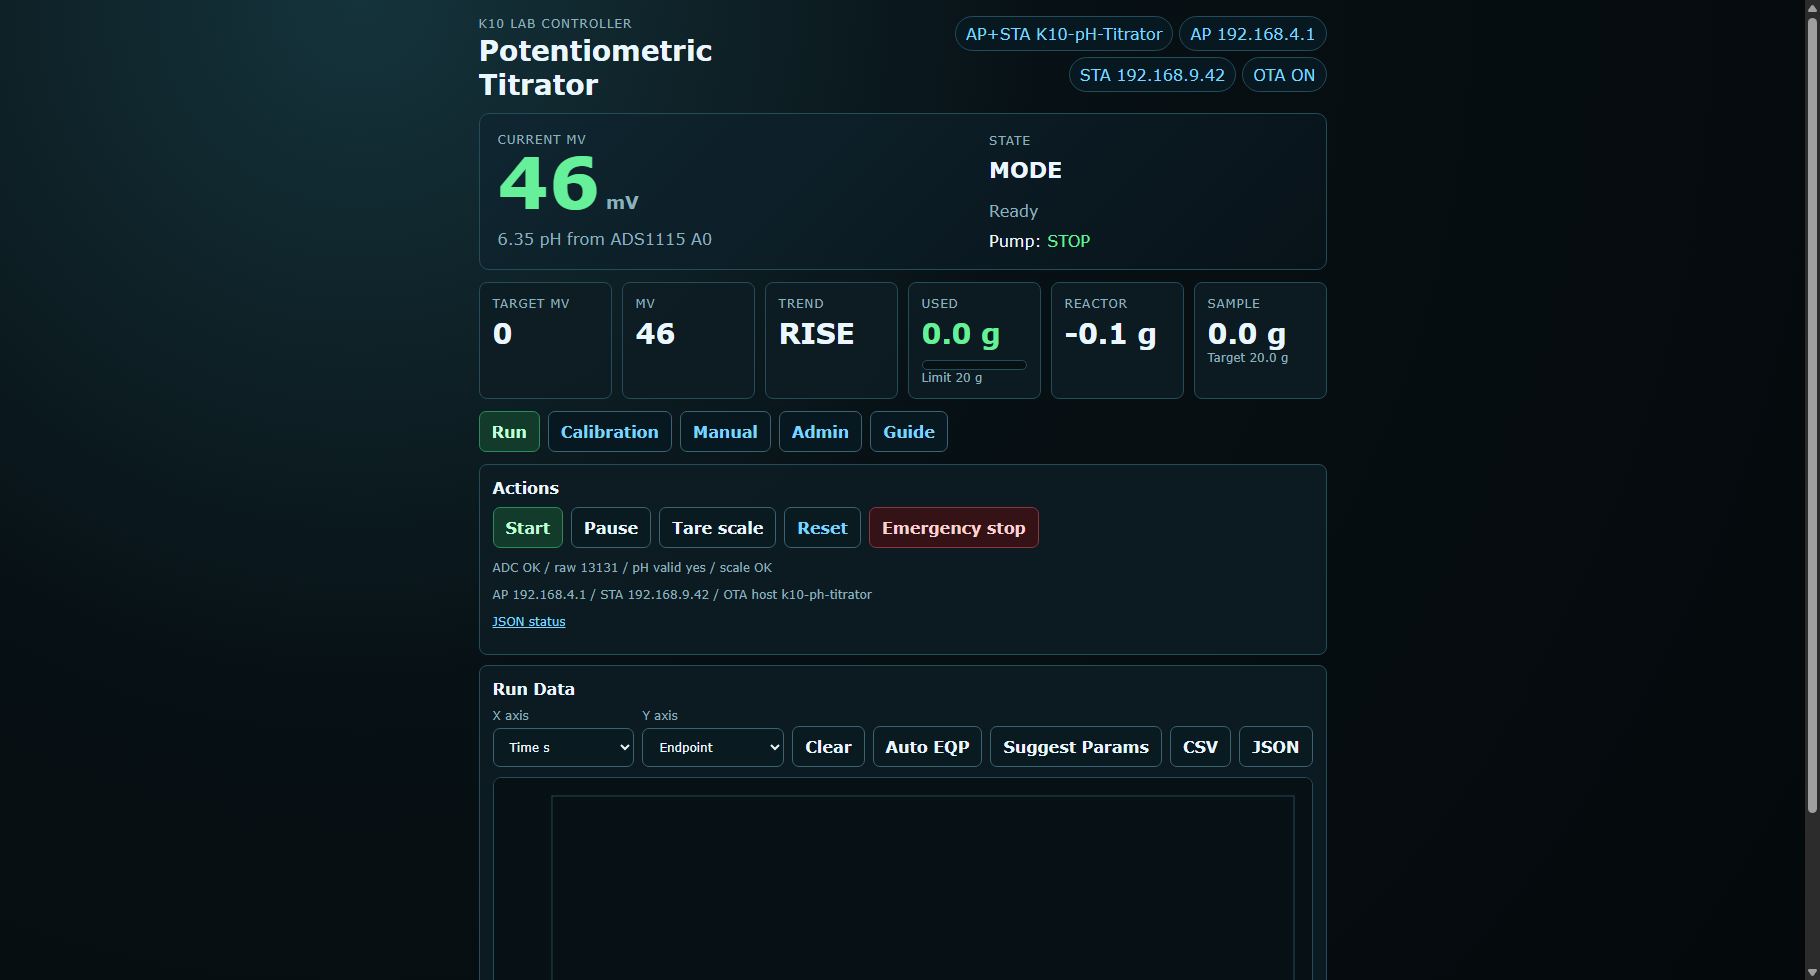
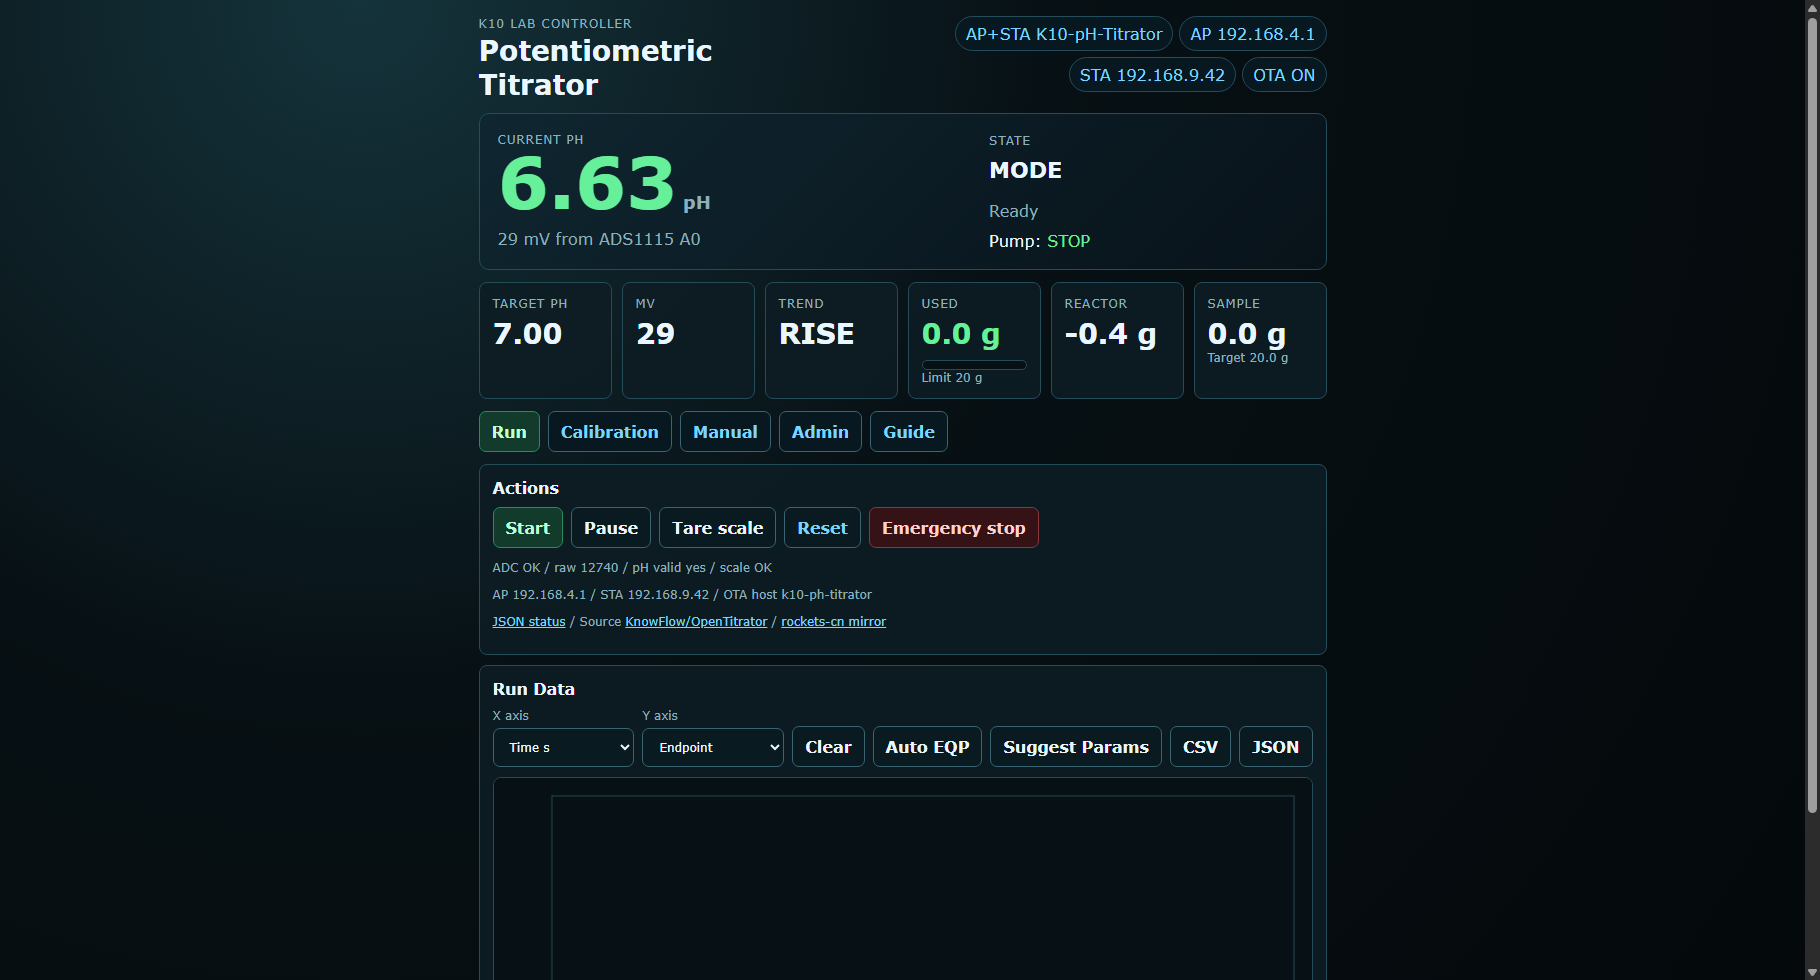
docs: update hardware and dosing references

diff --git a/docs/MANUAL.md b/docs/MANUAL.md
@@ -27,7 +27,7 @@
 ## 1. Safety Warnings
 
 - **Chemical safety**: Always wear goggles and gloves when handling acids, bases, or unknown samples.
-- **Electrical safety**: The K10 logic runs at 3.3 V. Pump servos require an external 5–6 V supply. **Never** power the pumps directly from the K10 board.
+- **Electrical safety**: The K10 logic runs at 3.3 V. The peristaltic pumps require an external 12 V supply. **Never** power the pumps directly from the K10 board.
 - **Common ground**: The external pump power supply **must share a ground** with the K10, otherwise the PWM signal will float and pumps may behave erratically.
 - **Emergency stop**: Press and hold **A+B** for ~1.2 seconds at any time to trigger an emergency stop. Both pumps will halt immediately.
 
@@ -40,7 +40,7 @@
 - pH probe (BNC, connect to ADS1115 A0 via adapter)
 - DFRobot KIT0176 I2C scale module + load cell + reactor vessel holder
 - 2× peristaltic pumps with servo plugs (titrant & sample)
-- External 5–6 V power supply for pumps
+- External 12 V power supply for pumps
 - Jumper wires (I2C, power, PWM)
 
 ---
@@ -63,7 +63,7 @@ Plug the pH probe BNC into the ADS1115 A0 channel adapter. The ADS1115 address i
 ### 3.3 Pumps
 - **Titrant pump** signal → `P0`
 - **Sample pump** signal → `P1`
-- Pump power (+5–6 V) comes from the **external supply**, not the K10.
+- Pump power (+12 V) comes from the **external supply**, not the K10.
 
 ### 3.4 Scale
 Place the reactor vessel on the scale platform. The scale module address is `0x64`. Make sure the load cell is pre-loaded slightly so it reads a stable positive value when empty.
@@ -216,7 +216,7 @@ Once pH is stable, the state changes to **Running** and the titration loop begin
 The controller repeatedly cycles through:
 
 1. **Running** — reads pH, decides pulse size using `decideAdaptiveDose`.
-2. **Dosing** — runs the titrant pump for the pulse duration (25–300 ms).
+2. **Dosing** — runs the titrant pump for the pulse duration (25–450 ms).
 3. **Settling** — waits (6–15 s) for mixing and electrode response.
 
 **You can**:
@@ -347,7 +347,7 @@ The controller advertises via mDNS as `k10-ph-titrator`. In the Arduino IDE:
 | Screen shows `ADC NO` | ADS1115 not detected | Check I2C wiring, verify address `0x49` |
 | Screen shows `SCALE NO` | Scale module not detected | Check I2C wiring, verify address `0x64` |
 | `SENSOR_FAULT` on screen | pH probe stuck at 0 or 1023 | Check probe connection, re-calibrate probe |
-| Pump does not run | No external power | Verify 5–6 V supply, common ground |
+| Pump does not run | No external power | Verify 12 V supply, common ground |
 | Pump runs continuously | PWM signal lost | Check servo wire on P0/P1 |
 | Web page won't load | Wrong IP | Use the IP shown on K10 screen |
 | OTA fails | Partition too small | Ensure `partitions.csv` is in the sketch folder |
@@ -378,13 +378,15 @@ if invalid pH → Error
 if mass limit reached → Error
 if already at target (±0.05) → Done
 if overshooting (dpH/dt steep and crossed target) → Done
-if steep slope (|dpH/dt| > 0.08) → 25 ms pulse, 15 s settle
-else if error > 1.0 → 300 ms pulse, 6 s settle
-else if error > 0.3 → 100 ms pulse, 10 s settle
-else → 40 ms pulse, 15 s settle
+if still drifting toward target inside predictive stop margin → Done
+if steep slope (|dpH/dt| > endpoint steep limit) → 25 ms pulse, 15 s settle
+else if error > controlBand × 3 → 450 ms pulse, 5 s settle
+else if error > controlBand → 150 ms pulse, 8 s settle
+else if error > controlBand × 0.33 → 60 ms pulse, 12 s settle
+else → 25 ms pulse, 15 s settle
 ```
 
-The controller uses the settle interval returned by each dose decision before returning to **Running**. This slower cadence gives the reactor and pH electrode enough time to respond, reducing overshoot near the endpoint.
+The controller uses the settle interval returned by each dose decision before returning to **Running**. The interval is clamped by the configured `Min / Max settle s`. This slower cadence gives the reactor and pH electrode enough time to respond, reducing overshoot near the endpoint.
 
 ### 11.4 Calibration Math
 

diff --git a/docs/MANUAL_CN.md b/docs/MANUAL_CN.md
@@ -27,7 +27,7 @@
 ## 1. 安全警告
 
 - **化学品安全**：操作酸、碱或未知样品时，务必佩戴护目镜和防护手套。
-- **电气安全**：K10 逻辑电路为 3.3 V，蠕动泵舵机需外部 5–6 V 供电。**严禁**直接从 K10 板载电源驱动泵。
+- **电气安全**：K10 逻辑电路为 3.3 V，蠕动泵需外部 12 V 供电。**严禁**直接从 K10 板载电源驱动泵。
 - **共地要求**：外部泵电源**必须与 K10 共地**，否则 PWM 信号会浮动，导致泵运行异常。
 - **紧急停止**：任何时候长按 **A+B** 约 1.2 秒即可触发紧急停止，两路泵立即停止。
 
@@ -40,7 +40,7 @@
 - pH 探头（BNC 接口，通过转接板接 ADS1115 A0）
 - DFRobot KIT0176 I2C 电子秤模块 + 称重传感器 + 反应瓶支架
 - 2× 蠕动泵及舵机插头（滴定泵 & 样品泵）
-- 泵专用外部 5–6 V 电源
+- 泵专用外部 12 V 电源
 - 杜邦线（I2C、电源、PWM）
 
 ---
@@ -63,7 +63,7 @@ K10 SCL    ──► ADS1115 SCL  ──► 秤 SCL
 ### 3.3 蠕动泵
 - **滴定泵**信号线 → `P0`
 - **样品泵**信号线 → `P1`
-- 泵电源（+5–6 V）由**外部电源**提供，不接 K10。
+- 泵电源（+12 V）由**外部电源**提供，不接 K10。
 
 ### 3.4 电子秤
 将反应瓶置于秤盘中央。秤模块地址为 `0x64`。确保称重传感器有轻微预载，空载时能读出稳定的正值。
@@ -216,7 +216,7 @@ pH 稳定后，状态变为 **Running（运行中）**，滴定循环开始。
 控制器按以下循环自动运行：
 
 1. **Running（运行中）** — 读取 pH，通过 `decideAdaptiveDose` 决定脉冲大小。
-2. **Dosing（加药中）** — 滴定泵按脉冲时长运行（25–300 ms）。
+2. **Dosing（加药中）** — 滴定泵按脉冲时长运行（25–450 ms）。
 3. **Settling（静置中）** — 等待混合和电极响应（6–15 s）。
 
 **您可以**：
@@ -347,7 +347,7 @@ python scripts/ota_upload.py ph_titrator/build/ph_titrator.ino.bin --ip 192.168.
 | 屏幕显示 `ADC NO` | ADS1115 未识别 | 检查 I2C 接线，确认地址 `0x49` |
 | 屏幕显示 `SCALE NO` | 秤模块未识别 | 检查 I2C 接线，确认地址 `0x64` |
 | 屏幕显示 `SENSOR_FAULT` | pH 探头卡死在 0 或 1023 | 检查探头接线，重新校准探头 |
-| 泵不转 | 无外部电源 | 确认 5–6 V 供电及共地 |
+| 泵不转 | 无外部电源 | 确认 12 V 供电及共地 |
 | 泵一直转 | PWM 信号丢失 | 检查 P0/P1 舵机线 |
 | 网页打不开 | IP 错误 | 使用 K10 屏幕上显示的 IP |
 | OTA 失败 | 分区太小 | 确保 `partitions.csv` 在 sketch 文件夹中 |
@@ -378,13 +378,15 @@ python scripts/ota_upload.py ph_titrator/build/ph_titrator.ino.bin --ip 192.168.
 若用量达到上限 → 报错
 若已在目标范围内（±0.05）→ 完成
 若过冲（dpH/dt 陡峭且已越过目标）→ 完成
-若斜率陡峭（|dpH/dt| > 0.08）→ 25 ms 脉冲，静置 15 s
-否则若误差 > 1.0 → 300 ms 脉冲，静置 6 s
-否则若误差 > 0.3 → 100 ms 脉冲，静置 10 s
-否则 → 40 ms 脉冲，静置 15 s
+若在预测停泵范围内且仍朝终点漂移 → 完成
+若斜率陡峭（|dpH/dt| > endpoint 陡峭阈值）→ 25 ms 脉冲，静置 15 s
+否则若误差 > controlBand × 3 → 450 ms 脉冲，静置 5 s
+否则若误差 > controlBand → 150 ms 脉冲，静置 8 s
+否则若误差 > controlBand × 0.33 → 60 ms 脉冲，静置 12 s
+否则 → 25 ms 脉冲，静置 15 s
 ```
 
-控制器会使用每次加药决策返回的静置时间，等待结束后才回到 **Running（运行中）**。这个节奏更慢，但能给反应器混合和 pH 电极响应留出时间，减少终点附近过冲。
+控制器会使用每次加药决策返回的静置时间，等待结束后才回到 **Running（运行中）**。静置时间会受到网页设置中的 `Min / Max settle s` 限幅。这个节奏更慢，但能给反应器混合和 pH 电极响应留出时间，减少终点附近过冲。
 
 ### 11.4 校准算法
 

diff --git a/README.md b/README.md
@@ -15,7 +15,7 @@ A standalone pH titration controller for the **UNIHIKER K10** (ESP32-S3). It aut
 | DFRobot KIT0176 scale | I2C | `0x64` | HX711-based, reads reactor weight |
 | Titrant pump | Servo PWM | `P0` | Peristaltic pump (e.g. DFR0523) |
 | Sample pump | Servo PWM | `P1` | Peristaltic pump for sample delivery |
-| Pump power | External 5–6 V | — | Common ground with K10 |
+| Pump power | External 12 V | — | Common ground with K10 |
 
 ### Wiring diagram (conceptual)
 
@@ -27,7 +27,7 @@ K10 (3.3 V I2C)          ADS1115 (0x49)           Scale (0x64)
 │
 ├─ P0  ──► Titrant pump servo signal
 ├─ P1  ──► Sample pump servo signal
-└─ 5V/GND ──► Shared power rail (pumps externally powered)
+└─ 12V/GND ─► Shared power rail (pumps externally powered)
 ```
 
 ---
@@ -51,15 +51,16 @@ Instead of continuous PWM, the controller doses the titrant in **timed pulses** 
 
 The S-shaped curve above illustrates why pulse dosing works: near the steep equivalence point, even a small dose causes a large pH jump. The controller detects this via `dpH/dt` and switches to micro-pulses with longer settle times.
 
-| Zone | pH error | Pulse | Settle | Purpose |
+| Zone | Error threshold | Pulse | Settle | Purpose |
 |------|----------|-------|--------|---------|
 | Steep | `|dpH/dt| > 0.08` | 25 ms | 15 s | Near equivalence point, prevent overshoot |
-| Far | `> 1.0` | 300 ms | 6 s | Conservative approach |
-| Medium | `0.3 – 1.0` | 100 ms | 10 s | Controlled approach |
-| Near | `≤ 0.3` | 40 ms | 15 s | Fine-tuning |
-| Deadband | `≤ 0.05` | — | — | Stop, target reached |
+| Far | `> controlBand × 3` | 450 ms | 5 s | Faster approach while far from endpoint |
+| Medium | `> controlBand` | 150 ms | 8 s | Controlled approach |
+| Near | `> controlBand × 0.33` | 60 ms | 12 s | Fine-tuning |
+| Micro | `≤ controlBand × 0.33` | 25 ms | 15 s | Final micro-dose if still below endpoint |
+| Endpoint | `≤ tolerance` or predictive stop | — | — | Stop, target reached |
 
-A `TitrationDynamics` tracker watches `dpH/dt` and halts immediately if the curve shows overshoot. Each dose decision also carries its own settling interval, so the controller waits long enough for mixing and electrode response before reading pH again.
+A `TitrationDynamics` tracker watches `dpH/dt` and halts immediately if the curve shows overshoot. Each dose decision also carries its own settling interval, clamped by the configured `Min / Max settle s`, so the controller waits long enough for mixing and electrode response before reading pH again. Default pH `controlBand` is `0.30`, so Far/Medium/Near thresholds are approximately `0.90`, `0.30`, and `0.10` pH.
 
 ### Automatic Pump Calibration
 From **SetupReady**, press **B** to enter calibration. The controller runs each pump for exactly 2 seconds, waits 5 seconds after each pump stops, measures the weight change on the scale, computes the flow rate (g/s), and saves it to ESP32 Preferences.

diff --git a/README_CN.md b/README_CN.md
@@ -15,7 +15,7 @@
 | DFRobot KIT0176 电子秤 | I2C | `0x64` | HX711 方案，读取反应瓶重量 |
 | 滴定泵 | 舵机 PWM | `P0` | 蠕动泵（如 DFR0523） |
 | 样品泵 | 舵机 PWM | `P1` | 蠕动泵，用于自动加样品 |
-| 泵电源 | 外部 5–6 V | — | 与 K10 共地 |
+| 泵电源 | 外部 12 V | — | 与 K10 共地 |
 
 ### 接线示意
 
@@ -27,7 +27,7 @@ K10 (3.3 V I2C)          ADS1115 (0x49)           电子秤 (0x64)
 │
 ├─ P0  ──► 滴定泵舵机信号线
 ├─ P1  ──► 样品泵舵机信号线
-└─ 5V/GND ──► 共用地线（泵由外部电源供电）
+└─ 12V/GND ─► 共用地线（泵由外部电源供电）
 ```
 
 ---
@@ -51,15 +51,16 @@ K10 (3.3 V I2C)          ADS1115 (0x49)           电子秤 (0x64)
 
 上图为典型的 S 型滴定曲线：接近等当点时，即使很小的加药量也会引起 pH 的大幅跃迁。控制器通过 `dpH/dt` 检测这一陡峭区，自动切换为微脉冲并延长静置时间，防止过冲。
 
-| 区域 | pH 误差 | 脉冲 | 静置 | 用途 |
+| 区域 | 误差阈值 | 脉冲 | 静置 | 用途 |
 |------|----------|-------|--------|---------|
 | 陡峭区 | `|dpH/dt| > 0.08` | 25 ms | 15 s | 接近等当点，防止过冲 |
-| 远区 | `> 1.0` | 300 ms | 6 s | 保守逼近 |
-| 中区 | `0.3 – 1.0` | 100 ms | 10 s | 可控逼近 |
-| 近区 | `≤ 0.3` | 40 ms | 15 s | 精细调节 |
-| 死区 | `≤ 0.05` | — | — | 停止，已达目标 |
+| 远区 | `> controlBand × 3` | 450 ms | 5 s | 远离终点时较快逼近 |
+| 中区 | `> controlBand` | 150 ms | 8 s | 可控逼近 |
+| 近区 | `> controlBand × 0.33` | 60 ms | 12 s | 精细调节 |
+| 微量区 | `≤ controlBand × 0.33` | 25 ms | 15 s | 未达终点时微脉冲补加 |
+| 终点 | `≤ tolerance` 或预测停泵 | — | — | 停止，已达目标 |
 
-`TitrationDynamics` 动态追踪器实时计算 `dpH/dt`，一旦检测到过冲趋势立即停泵。每次加药决策都会携带独立的静置时间，控制器会等待混合和电极响应后再读取下一次 pH。
+`TitrationDynamics` 动态追踪器实时计算 `dpH/dt`，一旦检测到过冲趋势立即停泵。每次加药决策都会携带独立的静置时间，并受网页设置中的 `Min / Max settle s` 限幅。默认 pH `controlBand` 为 `0.30`，因此远区/中区/近区阈值约为 `0.90`、`0.30`、`0.10` pH。
 
 ### 蠕动泵自动校准
 在 **SetupReady（就绪）** 状态按 **B 键**进入校准。控制器依次让滴定泵和样品泵各运行 2 秒，每个泵停泵后静置 5 秒再读取重量差，计算流量（g/s）并保存到 ESP32 Preferences，掉电不丢失。